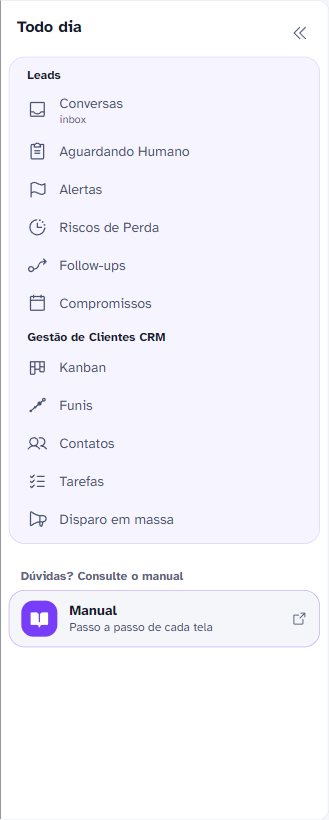
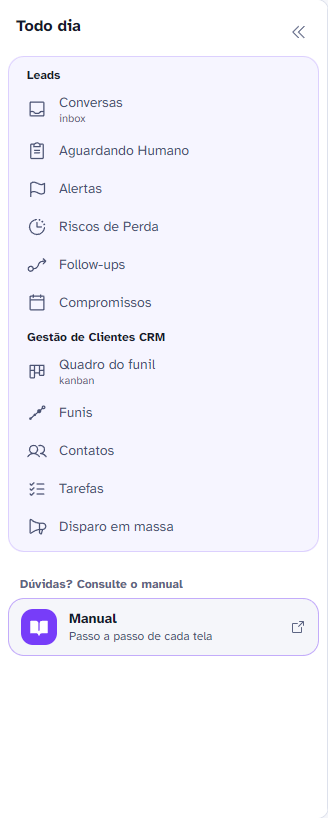
Manual em destaque: o link é a palavra «Manual», esticado sobre o cartão
O axe reprovou no e2e (label-content-name-mismatch, WCAG 2.5.3): a frase de baixo
estava dentro do link e o nome vinha por aria-labelledby, então o texto visível
não fazia parte do nome. Agora o link contém só «Manual», cobre o cartão por
::after, e a frase fica fora dele como descrição.

Medido na vitrine com a mesma régua do e2e: zero violação grave no painel, um só
link chamado «Manual», e o clique no canto do cartão cai no link.

diff --git a/components/shell/DestaqueDoManual.tsx b/components/shell/DestaqueDoManual.tsx
@@ -11,9 +11,11 @@ import { ArrowSquareOut, BookOpen } from "@/lib/ui/icons";
  * que «Se a sua empresa usa» ocupava com Comandas e Chamadas (decisão do dono do produto,
  * 12/11/2026).
  *
- * O NOME do link continua sendo só «Manual» (`aria-labelledby`); a frase de baixo é a descrição
- * dele (`aria-describedby`). Assim o leitor de tela anuncia o mesmo nome que o menu «Você» e a
- * folha do celular usam, e o texto visível está contido no nome.
+ * ⚠ O LINK É SÓ A PALAVRA «Manual», ESTICADO SOBRE O CARTÃO (`after:absolute after:inset-0`), e a
+ * frase de baixo fica FORA dele, como descrição (`aria-describedby`). A primeira versão punha a
+ * frase dentro do link e dava o nome por `aria-labelledby`: o axe reprova (`label-content-name-
+ * mismatch`, WCAG 2.5.3) porque o texto visível do link não estava no nome dele. Assim o nome é
+ * o texto — o mesmo «Manual» do menu «Você» e da folha do celular — e o cartão inteiro clica.
  *
  * Abre em outra aba: o manual é um site estático servido pela instalação (`app/manual`), fora do
  * casco do app, e quem o consulta quer voltar para a tela em que estava.
@@ -25,22 +27,24 @@ export function DestaqueDoManual({ aoNavegar }: { aoNavegar?: () => void }) {
       <h3 id="menu-manual-titulo" className="px-3 pt-3 pb-1.5 text-xs font-bold text-text-subtle">
         {t("Dúvidas? Consulte o manual")}
       </h3>
-      <a
-        href={ENDERECO_DO_MANUAL}
-        target="_blank"
-        rel="noopener"
-        onClick={aoNavegar}
-        aria-labelledby="menu-manual-nome"
-        aria-describedby="menu-manual-descricao"
-        className="group flex items-center gap-3 rounded-xl border border-accent/40 bg-background px-3 py-2.5 transition-colors hover:border-accent hover:bg-accent-soft/60"
+      <div
+        data-testid="cartao-do-manual"
+        className="group relative flex items-center gap-3 rounded-xl border border-accent/40 bg-background px-3 py-2.5 transition-colors hover:border-accent hover:bg-accent-soft/60"
       >
         <span className="flex h-9 w-9 shrink-0 items-center justify-center rounded-lg bg-accent text-accent-foreground">
           <BookOpen size={20} weight="fill" aria-hidden />
         </span>
         <span className="flex min-w-0 flex-1 flex-col">
-          <span id="menu-manual-nome" className="text-sm leading-tight font-semibold text-foreground">
+          <a
+            href={ENDERECO_DO_MANUAL}
+            target="_blank"
+            rel="noopener"
+            onClick={aoNavegar}
+            aria-describedby="menu-manual-descricao"
+            className="text-sm leading-tight font-semibold text-foreground after:absolute after:inset-0 after:rounded-xl"
+          >
             {t("Manual")}
-          </span>
+          </a>
           <span id="menu-manual-descricao" className="text-xs leading-snug text-muted-foreground">
             {t("Passo a passo de cada tela")}
           </span>
@@ -50,7 +54,7 @@ export function DestaqueDoManual({ aoNavegar }: { aoNavegar?: () => void }) {
           aria-hidden
           className="shrink-0 text-text-subtle group-hover:text-foreground"
         />
-      </a>
+      </div>
     </section>
   );
 }

diff --git a/tests/e2e/navegacao.spec.ts b/tests/e2e/navegacao.spec.ts
@@ -738,9 +738,10 @@ test.describe("o manual dentro do sistema", () => {
     const manual = destaque.getByRole("link", { name: "Manual", exact: true });
     await expect(manual).toBeVisible();
     // «À vista» medido, e não presumido: o cartão inteiro cabe na área visível da lista em 900 px.
-    const cabe = await manual.evaluate((a) => {
-      const lista = a.closest("nav")!.getBoundingClientRect();
-      const r = a.getBoundingClientRect();
+    // O link é a palavra «Manual», esticado sobre o cartão: quem se mede é o cartão.
+    const cabe = await destaque.getByTestId("cartao-do-manual").evaluate((cartao) => {
+      const lista = cartao.closest("nav")!.getBoundingClientRect();
+      const r = cartao.getBoundingClientRect();
       return r.top >= lista.top && r.bottom <= lista.bottom + 1;
     });
     expect(cabe, "o destaque do Manual ficou abaixo da dobra do painel").toBe(true);
